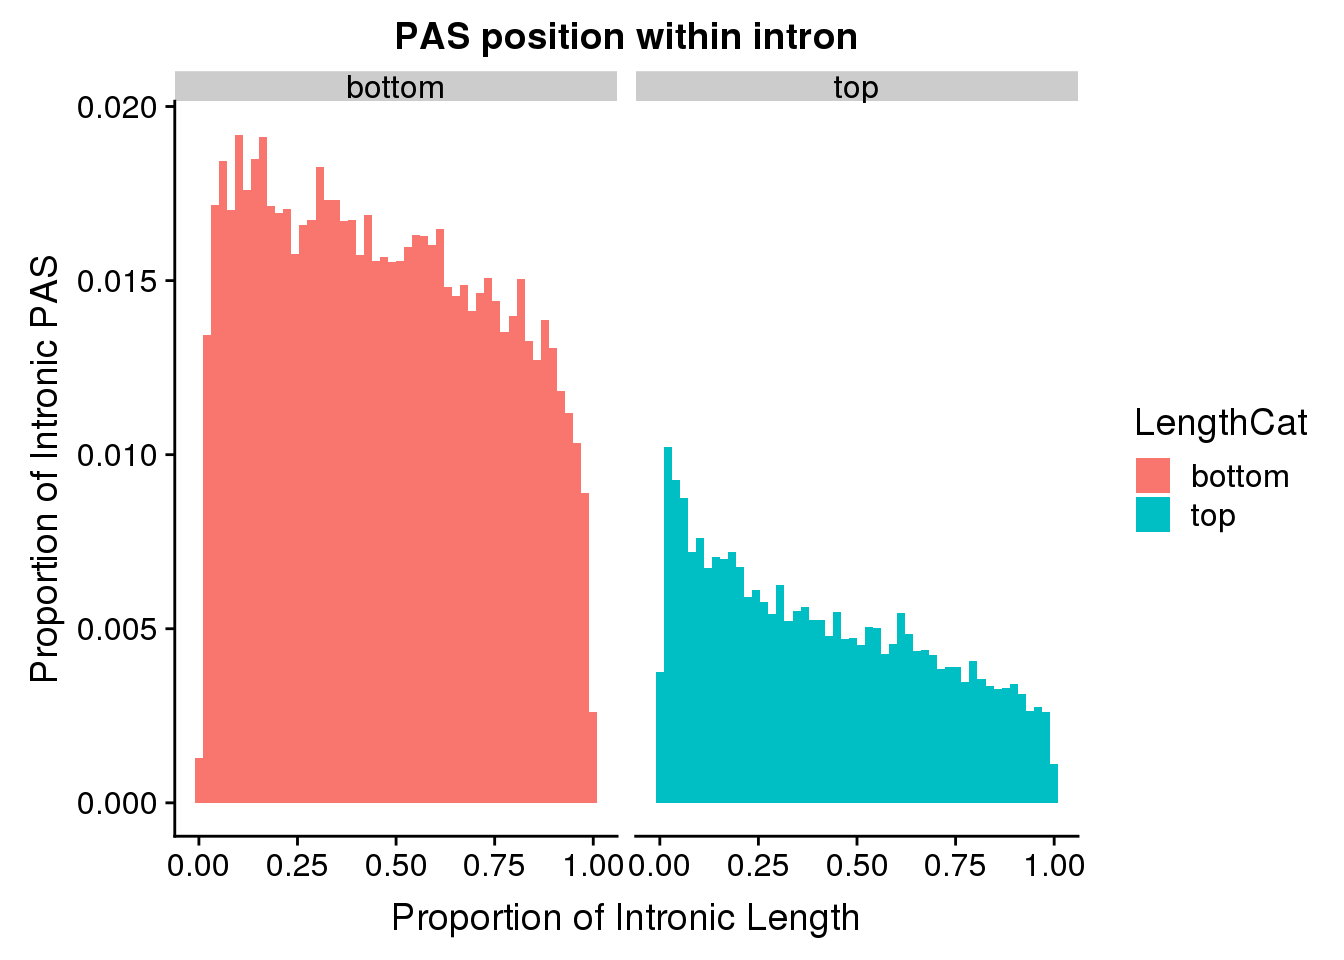
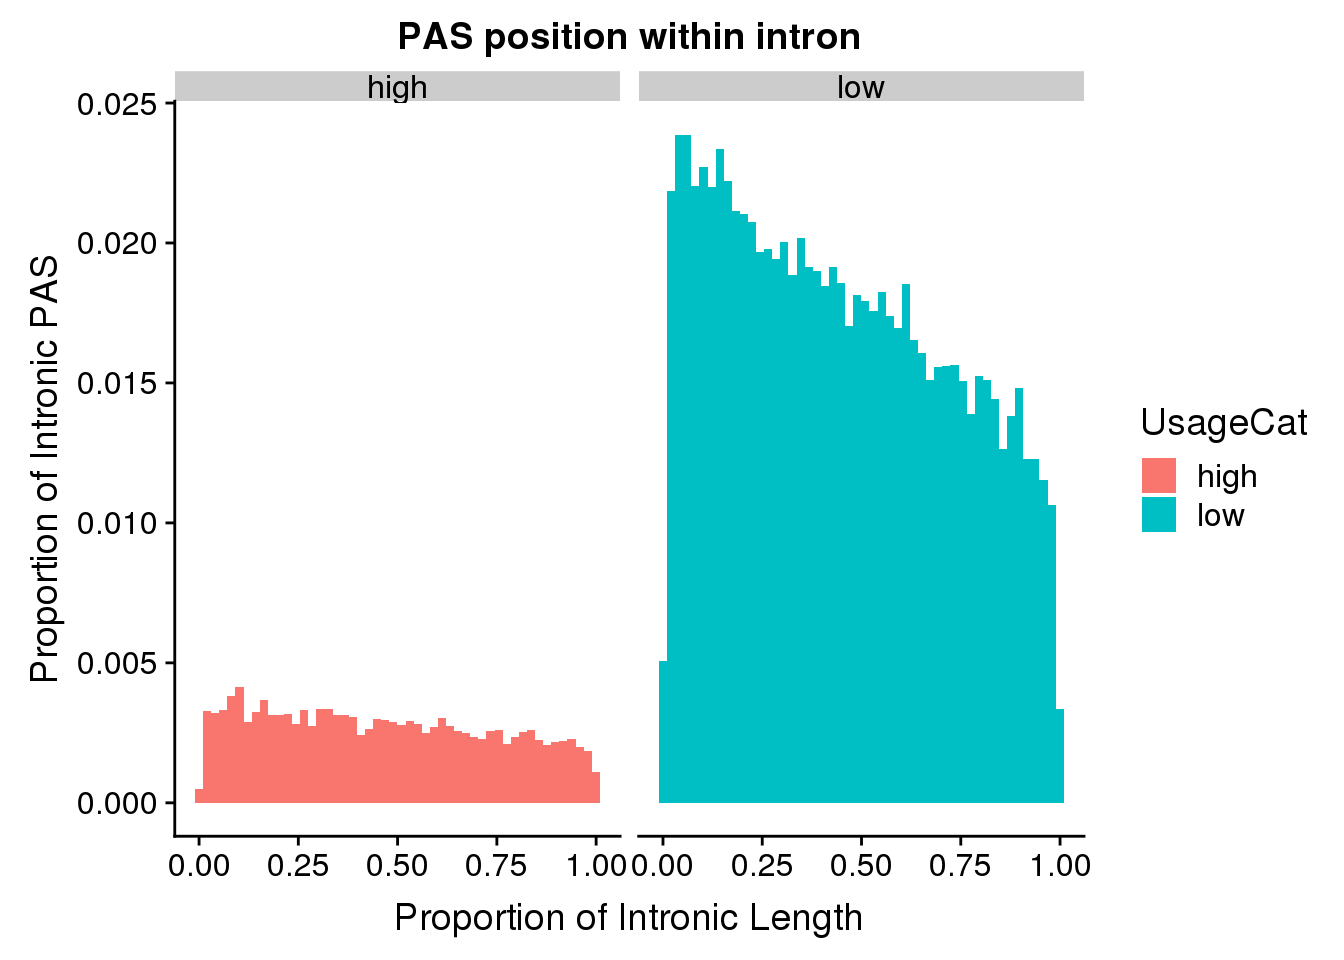
Build site.

diff --git a/docs/nucintronicanalysis.html b/docs/nucintronicanalysis.html
@@ -343,7 +343,7 @@ div.section {
 <div class="tab-content">
 <div id="summary" class="tab-pane fade in active">
 <p>
-<strong>Last updated:</strong> 2019-05-21
+<strong>Last updated:</strong> 2019-05-22
 </p>
 <p>
 <strong>Checks:</strong> <span class="glyphicon glyphicon-ok text-success" aria-hidden="true"></span> 6 <span class="glyphicon glyphicon-exclamation-sign text-danger" aria-hidden="true"></span> 0
@@ -422,10 +422,10 @@ This reproducible <a href="http://rmarkdown.rstudio.com">R Markdown</a> analysis
 <div class="panel panel-default">
 <div class="panel-heading">
 <p class="panel-title">
-<a data-toggle="collapse" data-parent="#workflowr-checks" href="#strongRepositoryversionstrongahrefhttpsgithubcombrimittlemanapaQTLtreed859f02f7079e5fdac54304f492e7e658bf3f0b6targetblankd859f02a"> <span class="glyphicon glyphicon-ok text-success" aria-hidden="true"></span> <strong>Repository version:</strong> <a href="https://github.com/brimittleman/apaQTL/tree/d859f02f7079e5fdac54304f492e7e658bf3f0b6" target="_blank">d859f02</a> </a>
+<a data-toggle="collapse" data-parent="#workflowr-checks" href="#strongRepositoryversionstrongahrefhttpsgithubcombrimittlemanapaQTLtreea259a17e4ca3bfe70a6fcf372a01bd63ad4ca1bdtargetblanka259a17a"> <span class="glyphicon glyphicon-ok text-success" aria-hidden="true"></span> <strong>Repository version:</strong> <a href="https://github.com/brimittleman/apaQTL/tree/a259a17e4ca3bfe70a6fcf372a01bd63ad4ca1bd" target="_blank">a259a17</a> </a>
 </p>
 </div>
[2 lines of base64/hex data omitted]
 <div class="panel-body">
 <p>
 Great! You are using Git for version control. Tracking code development and connecting the code version to the results is critical for reproducibility. The version displayed above was the version of the Git repository at the time these results were generated. <br><br> Note that you need to be careful to ensure that all relevant files for the analysis have been committed to Git prior to generating the results (you can use <code>wflow_publish</code> or <code>wflow_git_commit</code>). workflowr only checks the R Markdown file, but you know if there are other scripts or data files that it depends on. Below is the status of the Git repository when the results were generated:
@@ -445,8 +445,8 @@ Untracked files:
     Untracked:  analysis/._PASdescriptiveplots.Rmd
     Untracked:  analysis/._cuttoffPercUsage.Rmd
     Untracked:  analysis/cuttoffPercUsage.Rmd
-    Untracked:  analysis/deepToolsPlots.Rmd
     Untracked:  apaQTL.Rproj
+    Untracked:  code/._BothFracDTPlotGeneRegions_normalized.sh
     Untracked:  code/._FC_UTR.sh
     Untracked:  code/._FC_newPeaks_olddata.sh
     Untracked:  code/._LC_samplegroups.py
@@ -473,6 +473,7 @@ Untracked files:
     Untracked:  code/._configOLD.yaml
     Untracked:  code/._convertNumeric.py
     Untracked:  code/._dag.pdf
+    Untracked:  code/._encodeRNADTplots.sh
     Untracked:  code/._extractGenotypes.py
     Untracked:  code/._fc2leafphen.py
     Untracked:  code/._filter5perc.R
@@ -525,7 +526,12 @@ Untracked files:
     Untracked:  code/APAqtl_permuted.out
     Untracked:  code/BothFracDTPlotGeneRegions.err
     Untracked:  code/BothFracDTPlotGeneRegions.out
+    Untracked:  code/BothFracDTPlotGeneRegions_norm.err
+    Untracked:  code/BothFracDTPlotGeneRegions_norm.out
+    Untracked:  code/BothFracDTPlotGeneRegions_normalized.sh
     Untracked:  code/DistPAS2Sig.py
+    Untracked:  code/EncodeRNADTPlotGeneRegions.err
+    Untracked:  code/EncodeRNADTPlotGeneRegions.out
     Untracked:  code/FC_UTR.err
     Untracked:  code/FC_UTR.out
     Untracked:  code/FC_UTR.sh
@@ -555,6 +561,7 @@ Untracked files:
     Untracked:  code/dag.pdf
     Untracked:  code/dagPAS.pdf
     Untracked:  code/dagfiltPAS.pdf
+    Untracked:  code/encodeRNADTplots.sh
     Untracked:  code/extractGenotypes.py
     Untracked:  code/fc2leafphen.py
     Untracked:  code/finalPASbed2SAF.py
@@ -605,6 +612,7 @@ Untracked files:
     Untracked:  data/CompareOldandNew/
     Untracked:  data/DTmatrix/
     Untracked:  data/DiffIso/
+    Untracked:  data/EncodeRNA/
     Untracked:  data/PAS/
     Untracked:  data/QTLGenotypes/
     Untracked:  data/QTLoverlap/
@@ -662,8 +670,8 @@ Untracked files:
     Untracked:  output/meanCorrelationPhenotypes.svg
 
 Unstaged changes:
-    Modified:   analysis/DiffIsoAnalysis.Rmd
     Modified:   analysis/PASusageQC.Rmd
+    Modified:   analysis/Readdistagainstfeatures.Rmd
     Modified:   analysis/choosePCs.Rmd
     Modified:   analysis/corrbetweenind.Rmd
     Modified:   analysis/nascenttranscription.Rmd
@@ -716,6 +724,40 @@ Message
 </tr>
 </thead>
 <tbody>
+<tr>
+<td>
+Rmd
+</td>
+<td>
+<a href="https://github.com/brimittleman/apaQTL/blob/a259a17e4ca3bfe70a6fcf372a01bd63ad4ca1bd/analysis/nucintronicanalysis.Rmd" target="_blank">a259a17</a>
+</td>
+<td>
+brimittleman
+</td>
+<td>
+2019-05-22
+</td>
+<td>
+fix bug with utrs
+</td>
+</tr>
+<tr>
+<td>
+html
+</td>
+<td>
+<a href="https://rawcdn.githack.com/brimittleman/apaQTL/365e817d4e8a26a474e308bfb04ac638f3b62e92/docs/nucintronicanalysis.html" target="_blank">365e817</a>
+</td>
+<td>
+brimittleman
+</td>
+<td>
+2019-05-21
+</td>
+<td>
+Build site.
+</td>
+</tr>
 <tr>
 <td>
 html
@@ -828,12 +870,12 @@ start ideas for inton analysis
 <p>I am interested in understanding where in the introns the nuclear peaks are. Are they closer to the three prime or five prime edge of the intron. This may help us understand if NMD is contributing to the loss of transcripts between the nuclear and total fraction.</p>
 <p>I need to create an annotation with introns that do not overlap. For this I will use line up all of the exons for a gene then take the open spaces as introns.</p>
 <pre class="r"><code>library(tidyverse)</code></pre>
-<pre><code>── Attaching packages ────────────────────────────────────────────────────────────────────── tidyverse 1.2.1 ──</code></pre>
+<pre><code>── Attaching packages ──────────────────────────────────────────────────────────────────── tidyverse 1.2.1 ──</code></pre>
 <pre><code>✔ ggplot2 3.1.1       ✔ purrr   0.3.2  
 ✔ tibble  2.1.1       ✔ dplyr   0.8.0.1
 ✔ tidyr   0.8.3       ✔ stringr 1.3.1  
 ✔ readr   1.3.1       ✔ forcats 0.3.0  </code></pre>
-<pre><code>── Conflicts ───────────────────────────────────────────────────────────────────────── tidyverse_conflicts() ──
+<pre><code>── Conflicts ─────────────────────────────────────────────────────────────────────── tidyverse_conflicts() ──
 ✖ dplyr::filter() masks stats::filter()
 ✖ dplyr::lag()    masks stats::lag()</code></pre>
 <pre class="r"><code>library(workflowr)</code></pre>
@@ -861,9 +903,12 @@ write.table(nucIntronicPeaksBed, &quot;../data/intron_analysis/NuclearIntronicPe
 sbatch grouptranscripts.py
 
 python fixgroupedtranscript.py</code></pre>
-<p>Exons:</p>
-<p>/project2/gilad/briana/genome_anotation_data/RefSeq_annotations/ncbiRefseq_coding.dms</p>
-<p>Exon bed <a href="file:/project2/gilad/briana/genome_anotation_data/RefSeq_annotations/refseq.ProteinCoding.bed" class="uri">file:/project2/gilad/briana/genome_anotation_data/RefSeq_annotations/refseq.ProteinCoding.bed</a></p>
+<p>I want to subract any exon or UTR seqeunce. I have an annotation bed file I will use:</p>
+<pre class="r"><code>exonandUTRs=read.table(&quot;../../genome_anotation_data/RefSeq_annotations/ncbiRefSeq_FormatedallAnnotation.sort.bed&quot;, col.names = c(&quot;CHR&quot;, &quot;start&quot;, &quot;end&quot;, &quot;ID&quot;, &quot;score&quot;, &quot;strand&quot;),stringsAsFactors = F)%&gt;% separate(ID, into=c(&quot;loc&quot;, &quot;gene&quot;),sep=&quot;:&quot;) %&gt;% filter(loc!=&quot;intron&quot;) %&gt;% dplyr::select(-loc) %&gt;% mutate(CHR=paste(&quot;chr&quot;, CHR, sep=&quot;&quot;))
+
+
+write.table(exonandUTRs, file=&quot;../data/intron_analysis/ExonandUTRloc.bed&quot;, quote=F, col.names = F, row.names = F, sep=&quot;\t&quot;)</code></pre>
+<pre class="bash"><code>sort -k1,1 -k2,2n ../data/intron_analysis/ExonandUTRloc.bed &gt; ../data/intron_analysis/ExonandUTRloc.sort.bed</code></pre>
 <pre class="bash"><code>sbatch subtractExons.sh</code></pre>
 <p>sort:</p>
 <pre class="bash"><code>sort -k1,1 -k2,2n /project2/gilad/briana/apaQTL/data/intron_analysis/transcriptsMinusExons.bed &gt; /project2/gilad/briana/apaQTL/data/intron_analysis/transcriptsMinusExons.sort.bed</code></pre>
@@ -876,103 +921,6 @@ python fixgroupedtranscript.py</code></pre>
 <pre class="r"><code>pas2intron_usage=pas2intron %&gt;% mutate(UsageCat=ifelse(meanUsage&lt;=.5, &quot;low&quot;, &quot;high&quot;))
 
 ggplot(pas2intron_usage, aes(x=propIntron, fill=UsageCat)) + geom_histogram(bins=50, aes(y=..count../33345)) + labs(title=&quot;PAS position within intron&quot;, y=&quot;Proportion of Intronic PAS&quot;, x=&quot;Proportion of Intronic Length&quot;) + facet_grid(~UsageCat)</code></pre>
-<p><img src="figure/nucintronicanalysis.Rmd/unnamed-chunk-10-1.png" width="672" style="display: block; margin: auto;" /></p>
-<p>
-<button type="button" class="btn btn-default btn-xs btn-workflowr btn-workflowr-fig" data-toggle="collapse" data-target="#fig-unnamed-chunk-10-1">
-Past versions of unnamed-chunk-10-1.png
-</button>
-</p>
-<div id="fig-unnamed-chunk-10-1" class="collapse">
-<div class="table-responsive">
-<table class="table table-condensed table-hover">
-<thead>
-<tr>
-<th>
-Version
-</th>
-<th>
-Author
-</th>
-<th>
-Date
-</th>
-</tr>
-</thead>
-<tbody>
-<tr>
-<td>
-<a href="https://github.com/brimittleman/apaQTL/blob/d859f02f7079e5fdac54304f492e7e658bf3f0b6/docs/figure/nucintronicanalysis.Rmd/unnamed-chunk-10-1.png" target="_blank">d859f02</a>
-</td>
-<td>
-brimittleman
-</td>
-<td>
-2019-05-21
-</td>
-</tr>
-<tr>
-<td>
-<a href="https://github.com/brimittleman/apaQTL/blob/801ca1b09492172c6076aa44cb901b40524e0164/docs/figure/nucintronicanalysis.Rmd/unnamed-chunk-10-1.png" target="_blank">801ca1b</a>
-</td>
-<td>
-brimittleman
-</td>
-<td>
-2019-05-20
-</td>
-</tr>
-</tbody>
-</table>
-</div>
-</div>
-<p>Look at different intron lengths:</p>
-<p>First i want to look at the distribution of intorn lengths:</p>
-<pre class="r"><code>ggplot(pas2intron_usage, aes(x=log10(intronLength))) + geom_density()</code></pre>
-<p><img src="figure/nucintronicanalysis.Rmd/unnamed-chunk-11-1.png" width="672" style="display: block; margin: auto;" /></p>
-<p>
-<button type="button" class="btn btn-default btn-xs btn-workflowr btn-workflowr-fig" data-toggle="collapse" data-target="#fig-unnamed-chunk-11-1">
-Past versions of unnamed-chunk-11-1.png
-</button>
-</p>
-<div id="fig-unnamed-chunk-11-1" class="collapse">
-<div class="table-responsive">
-<table class="table table-condensed table-hover">
-<thead>
-<tr>
-<th>
-Version
-</th>
-<th>
-Author
-</th>
-<th>
-Date
-</th>
-</tr>
-</thead>
-<tbody>
-<tr>
-<td>
-<a href="https://github.com/brimittleman/apaQTL/blob/d859f02f7079e5fdac54304f492e7e658bf3f0b6/docs/figure/nucintronicanalysis.Rmd/unnamed-chunk-11-1.png" target="_blank">d859f02</a>
-</td>
-<td>
-brimittleman
-</td>
-<td>
-2019-05-21
-</td>
-</tr>
-</tbody>
-</table>
-</div>
-</div>
-<p>I will look at above and below the mean intron length:</p>
-<pre class="r"><code>meanIntronlength=mean(pas2intron_usage$intronLength)
-
-pas2intron_length=pas2intron %&gt;% mutate(LengthCat=ifelse(intronLength&lt;=meanIntronlength, &quot;bottom&quot;, &quot;top&quot;))
-
-
-ggplot(pas2intron_length, aes(x=propIntron, fill=LengthCat)) + geom_histogram(bins=50, aes(y=..count../33345)) + labs(title=&quot;PAS position within intron&quot;, y=&quot;Proportion of Intronic PAS&quot;, x=&quot;Proportion of Intronic Length&quot;) + facet_grid(~LengthCat)</code></pre>
 <p><img src="figure/nucintronicanalysis.Rmd/unnamed-chunk-12-1.png" width="672" style="display: block; margin: auto;" /></p>
 <p>
 <button type="button" class="btn btn-default btn-xs btn-workflowr btn-workflowr-fig" data-toggle="collapse" data-target="#fig-unnamed-chunk-12-1">
@@ -1011,13 +959,9 @@ brimittleman
 </table>
 </div>
 </div>
-<p>Look at quartiles:</p>
-<pre class="r"><code>summary(pas2intron_usage$intronLength)</code></pre>
-<pre><code>   Min. 1st Qu.  Median    Mean 3rd Qu.    Max. 
-    106    4451   11142   29576   30024 1878880 </code></pre>
-<pre class="r"><code>pas2intron_length2=pas2intron %&gt;% mutate(LengthCat=ifelse(intronLength&lt;=4451, &quot;first&quot;, ifelse(intronLength&gt;4451 &amp;intronLength&lt;=11142, &quot;second&quot;, ifelse(intronLength&gt;11142 &amp;intronLength&lt;=30024, &quot;third&quot;, &quot;fourth&quot;))))
-                                         
-ggplot(pas2intron_length2, aes(x=propIntron, fill=LengthCat)) + geom_histogram(bins=50, aes(y=..count../33345)) + labs(title=&quot;PAS position within intron&quot;, y=&quot;Proportion of Intronic PAS&quot;, x=&quot;Proportion of Intronic Length&quot;) + facet_grid(~LengthCat)</code></pre>
+<p>Look at different intron lengths:</p>
+<p>First i want to look at the distribution of intorn lengths:</p>
+<pre class="r"><code>ggplot(pas2intron_usage, aes(x=log10(intronLength))) + geom_density()</code></pre>
 <p><img src="figure/nucintronicanalysis.Rmd/unnamed-chunk-13-1.png" width="672" style="display: block; margin: auto;" /></p>
 <p>
 <button type="button" class="btn btn-default btn-xs btn-workflowr btn-workflowr-fig" data-toggle="collapse" data-target="#fig-unnamed-chunk-13-1">
@@ -1056,6 +1000,25 @@ brimittleman
 </table>
 </div>
 </div>
+<p>I will look at above and below the mean intron length:</p>
+<pre class="r"><code>meanIntronlength=mean(pas2intron_usage$intronLength)
+
+pas2intron_length=pas2intron %&gt;% mutate(LengthCat=ifelse(intronLength&lt;=meanIntronlength, &quot;bottom&quot;, &quot;top&quot;))
+
+
+ggplot(pas2intron_length, aes(x=propIntron, fill=LengthCat)) + geom_histogram(bins=50, aes(y=..count../33345)) + labs(title=&quot;PAS position within intron&quot;, y=&quot;Proportion of Intronic PAS&quot;, x=&quot;Proportion of Intronic Length&quot;) + facet_grid(~LengthCat)</code></pre>
+<p><img src="figure/nucintronicanalysis.Rmd/unnamed-chunk-14-1.png" width="672" style="display: block; margin: auto;" /></p>
+<pre class="r"><code>ggplot(pas2intron_length, aes(x=distance2PAS, fill=LengthCat)) + geom_histogram(bins=50, aes(y=..count../33345)) + labs(title=&quot;PAS position within intron&quot;, y=&quot;Proportion of Intronic PAS&quot;, x=&quot;Proportion of Intronic Length&quot;) + facet_grid(~LengthCat)</code></pre>
+<p><img src="figure/nucintronicanalysis.Rmd/unnamed-chunk-14-2.png" width="672" style="display: block; margin: auto;" /> Look at quartiles:</p>
+<pre class="r"><code>summary(pas2intron_usage$intronLength)</code></pre>
+<pre><code>   Min. 1st Qu.  Median    Mean 3rd Qu.    Max. 
+    106    3929    9220   22248   24094 1102540 </code></pre>
+<pre class="r"><code>pas2intron_length2=pas2intron %&gt;% mutate(LengthCat=ifelse(intronLength&lt;=3929, &quot;first&quot;, ifelse(intronLength&gt;3929 &amp;intronLength&lt;=9220, &quot;second&quot;, ifelse(intronLength&gt;9220 &amp;intronLength&lt;=24094, &quot;third&quot;, &quot;fourth&quot;))))
+                                         
+ggplot(pas2intron_length2, aes(x=propIntron, fill=LengthCat)) + geom_histogram(bins=50, aes(y=..count../33345)) + labs(title=&quot;PAS position within intron \n Nuclear intronic PAS&quot;, y=&quot;Proportion of Intronic PAS&quot;, x=&quot;Proportion of Intronic Length&quot;) + facet_grid(~LengthCat)+theme(axis.text.x = element_text(angle = 90, hjust = 1))</code></pre>
+<p><img src="figure/nucintronicanalysis.Rmd/unnamed-chunk-15-1.png" width="672" style="display: block; margin: auto;" /></p>
+<pre class="r"><code>ggplot(pas2intron_length2, aes(x=log(distance2PAS)), by=LengthCat, col=LengthCat) + stat_ecdf(aes(col=LengthCat)) </code></pre>
+<p><img src="figure/nucintronicanalysis.Rmd/unnamed-chunk-15-2.png" width="672" style="display: block; margin: auto;" /></p>
 <p>Look at distribution in total fraction:</p>
 <pre class="r"><code>totIntronicPeaks=read.table(&quot;../data/peaks_5perc/APApeak_Peaks_GeneLocAnno.Total.5perc.fc&quot;, stringsAsFactors = F, header = F,col.names = c(&quot;chr&quot;, &quot;start&quot;, &quot;end&quot;, &quot;gene&quot;, &quot;loc&quot;, &quot;strand&quot;, &quot;peak&quot;, &quot;avgUsage&quot;)) %&gt;% filter(loc==&quot;intron&quot;)
 
@@ -1070,88 +1033,14 @@ nrow(pas2intronTot)</code></pre>
 <pre><code>[1] 31954</code></pre>
 <pre class="r"><code>totalplot=ggplot(pas2intronTot, aes(x=propIntron)) + geom_histogram(bins=50, aes(y=..count../31954)) + labs(title=&quot;PAS position within intron \nfor total PAS&quot;, y=&quot;Proportion of Intronic PAS&quot;, x=&quot;Proportion of Intronic Length&quot;)</code></pre>
 <pre class="r"><code>plot_grid(totalplot, nuclearplot)</code></pre>
-<p><img src="figure/nucintronicanalysis.Rmd/unnamed-chunk-18-1.png" width="672" style="display: block; margin: auto;" /></p>
-<p>
-<button type="button" class="btn btn-default btn-xs btn-workflowr btn-workflowr-fig" data-toggle="collapse" data-target="#fig-unnamed-chunk-18-1">
-Past versions of unnamed-chunk-18-1.png
-</button>
-</p>
-<div id="fig-unnamed-chunk-18-1" class="collapse">
-<div class="table-responsive">
-<table class="table table-condensed table-hover">
-<thead>
-<tr>
-<th>
-Version
-</th>
-<th>
-Author
-</th>
-<th>
-Date
-</th>
-</tr>
-</thead>
-<tbody>
-<tr>
-<td>
-<a href="https://github.com/brimittleman/apaQTL/blob/d859f02f7079e5fdac54304f492e7e658bf3f0b6/docs/figure/nucintronicanalysis.Rmd/unnamed-chunk-18-1.png" target="_blank">d859f02</a>
-</td>
-<td>
-brimittleman
-</td>
-<td>
-2019-05-21
-</td>
-</tr>
-</tbody>
-</table>
-</div>
-</div>
+<p><img src="figure/nucintronicanalysis.Rmd/unnamed-chunk-20-1.png" width="672" style="display: block; margin: auto;" /></p>
 <pre class="r"><code>summary(pas2intronTot$intronLength)</code></pre>
 <pre><code>   Min. 1st Qu.  Median    Mean 3rd Qu.    Max. 
-    106    4275   10682   28016   28377 1878880 </code></pre>
-<pre class="r"><code>pas2intron_totlength2=pas2intronTot %&gt;% mutate(LengthCat=ifelse(intronLength&lt;=4451, &quot;first&quot;, ifelse(intronLength&gt;4275 &amp;intronLength&lt;=10682, &quot;second&quot;, ifelse(intronLength&gt;10682 &amp;intronLength&lt;=28377, &quot;third&quot;, &quot;fourth&quot;))))
+    106    3785    8872   21032   22928 1102540 </code></pre>
+<pre class="r"><code>pas2intron_totlength2=pas2intronTot %&gt;% mutate(LengthCat=ifelse(intronLength&lt;=3785, &quot;first&quot;, ifelse(intronLength&gt;3785 &amp;intronLength&lt;=8872, &quot;second&quot;, ifelse(intronLength&gt;8872 &amp;intronLength&lt;=22928, &quot;third&quot;, &quot;fourth&quot;))))
                                          
-ggplot(pas2intron_totlength2, aes(x=propIntron, fill=LengthCat)) + geom_histogram(bins=50, aes(y=..count../31954)) + labs(title=&quot;PAS position within intron&quot;, y=&quot;Proportion of Intronic PAS&quot;, x=&quot;Proportion of Intronic Length&quot;) + facet_grid(~LengthCat)</code></pre>
-<p><img src="figure/nucintronicanalysis.Rmd/unnamed-chunk-19-1.png" width="672" style="display: block; margin: auto;" /></p>
-<p>
-<button type="button" class="btn btn-default btn-xs btn-workflowr btn-workflowr-fig" data-toggle="collapse" data-target="#fig-unnamed-chunk-19-1">
-Past versions of unnamed-chunk-19-1.png
-</button>
-</p>
-<div id="fig-unnamed-chunk-19-1" class="collapse">
-<div class="table-responsive">
-<table class="table table-condensed table-hover">
-<thead>
-<tr>
-<th>
-Version
-</th>
-<th>
-Author
-</th>
-<th>
-Date
-</th>
-</tr>
-</thead>
-<tbody>
-<tr>
-<td>
-<a href="https://github.com/brimittleman/apaQTL/blob/d859f02f7079e5fdac54304f492e7e658bf3f0b6/docs/figure/nucintronicanalysis.Rmd/unnamed-chunk-19-1.png" target="_blank">d859f02</a>
-</td>
-<td>
-brimittleman
-</td>
-<td>
-2019-05-21
-</td>
-</tr>
-</tbody>
-</table>
-</div>
-</div>
+ggplot(pas2intron_totlength2, aes(x=propIntron, fill=LengthCat)) + geom_histogram(bins=50, aes(y=..count../31954)) + labs(title=&quot;PAS position within intron \n Total intronic PAS&quot;, y=&quot;Proportion of Intronic PAS&quot;, x=&quot;Proportion of Intronic Length&quot;) + facet_grid(~LengthCat) + theme(axis.text.x = element_text(angle = 90, hjust = 1))</code></pre>
+<p><img src="figure/nucintronicanalysis.Rmd/unnamed-chunk-21-1.png" width="672" style="display: block; margin: auto;" /></p>
 <br>
 <p>
 <button type="button" class="btn btn-default btn-workflowr btn-workflowr-sessioninfo" data-toggle="collapse" data-target="#workflowr-sessioninfo" style="display: block;">
